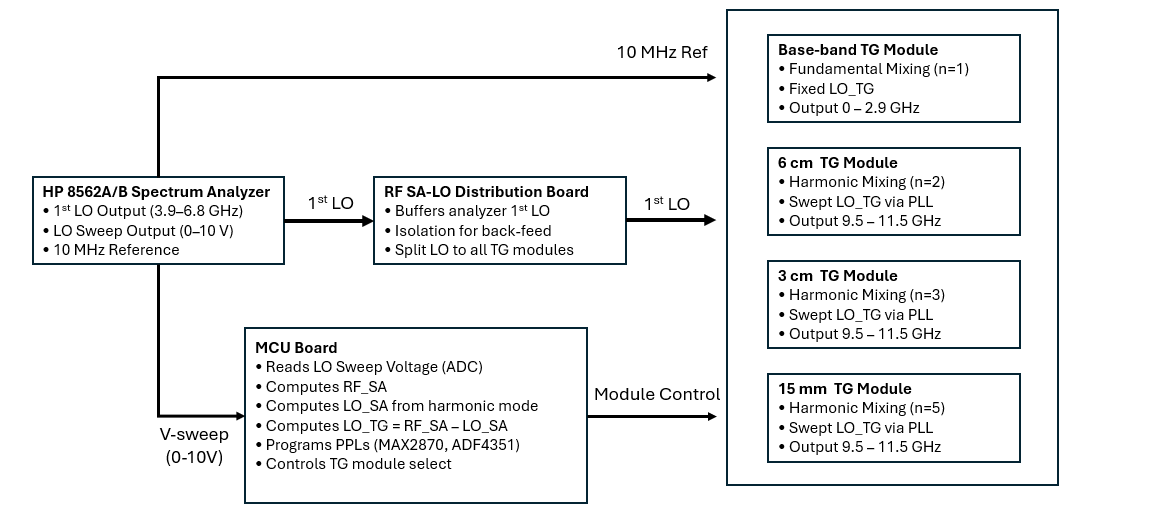
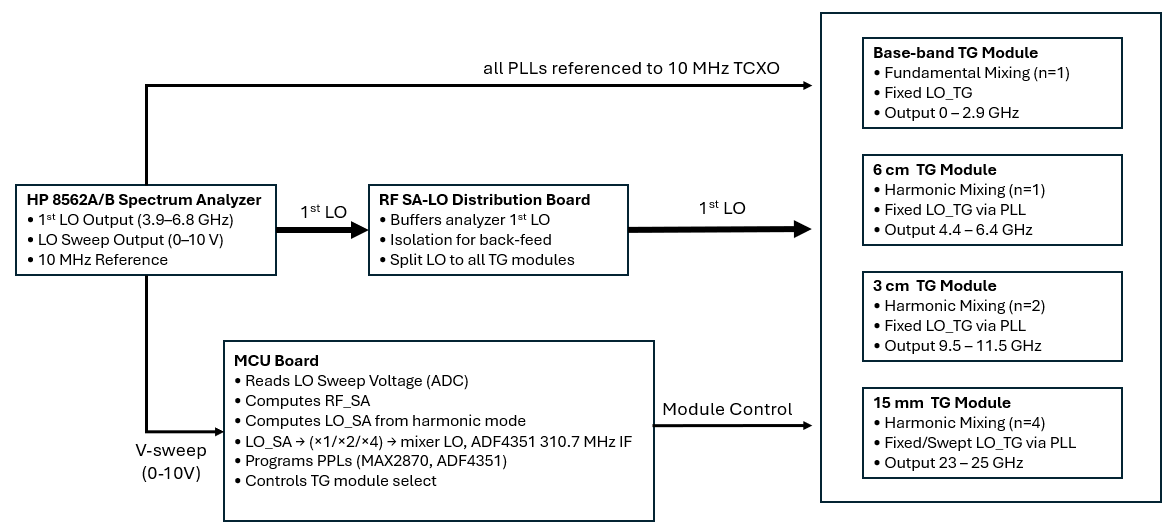
Refactor code structure for improved readability and maintainability

Changed region(s): [[0.0, 0.0614, 0.9965, 1.0], [0.6228, 0.0, 0.9965, 0.0307]]

diff --git a/docs/architecture/01-tg-system-architecture.md b/docs/architecture/01-tg-system-architecture.md
@@ -11,9 +11,9 @@
 The Tracking Generator (TG) system is a modular, analyzer‑synchronous signal source covering:
 
 - **Base‑Band:** 0–2.9 GHz  
+- **6 cm:** 4.4-6.4 GHz 
 - **3 cm:** 9.5–11.5 GHz  
-- **6 cm:** future  
-- **15 mm:** future  
+- **15 mm:** 23-25 Ghz (future)  
 
 All TG modules derive their timing and frequency coherence from the **spectrum analyzer’s internal LO system**, ensuring that the TG output always tracks the analyzer sweep.
 
@@ -33,7 +33,7 @@ The TG system is composed of six boards:
 1. **MCU (Raspberry Pi Pico)**  
 2. **RF SA‑LO Distribution Module**  
 3. **Base‑Band TG Module**  
-4. **6 cm TG Module** (future)  
+4. **6 cm TG Module**  
 5. **3 cm TG Module**  
 6. **15 mm TG Module** (future)
 
@@ -54,23 +54,24 @@ Each TG module then generates its own internal LO(s) and performs mixing to reco
 - Ensures long‑term coherence
 
 ### Base‑Band module  
-- Internal LO: MAX2870 at 3.9107 GHz (fixed)  
+- Internal IF LO: MAX2870 at 3.9107 GHz (fixed)  
 - Mixer: HMC219  
 - Output: 0–2.9 GHz
 
+### 6 cm module  
+- Internal IF LO: ADF4351 at 310.7 MHz (fixed)  
+- Mixer: HMC219
+- Output: 4.4-6.4 GHz
+
 ### 3 cm module  
 - High‑frequency LO: Doubled analyzer LO (8.94–10.28 GHz)  
-- IF LO: ADF4351 (0.56–1.23 GHz)  
+- Internal IF LO: ADF4351 at 310.7 MHz (fixed)  
 - Mixer: HMC220  
 - Output: 9.5–11.5 GHz
 
-### 6 cm module (future)  
-- Will use analyzer LO + local PLL/multiplier  
-- Output expected in 5–7 GHz region
-
 ### 15 mm module (future)  
 - Will require higher‑order multiplication  
-- Output expected in 18–20 GHz region
+- Output expected in 23-25 GHz region
 
 ---
 
@@ -87,9 +88,8 @@ Each TG module then generates its own internal LO(s) and performs mixing to reco
 | Analyzer 1st LO → Distribution | +16.5 dBm | Raw analyzer output |
 | Distribution → TG modules | +16 dBm | After isolator, amp, splitter, pad |
 | TG module LO input | +13 dBm | After on‑module pad/filter |
-| Base‑Band MAX2870 LO | +13 dBm | After LO chain |
-| 3 cm Doubled LO | +7 dBm | After LO amp |
-| 3 cm IF LO (ADF4351) | 0 dBm | Direct |
+| TG mixer LO input | +13 dBm | After LO chain |
+| Output | 0 dBm | After filters, amp, pad|
 
 All levels are chosen to meet mixer LO drive requirements and maintain isolation.
 
@@ -100,11 +100,10 @@ All levels are chosen to meet mixer LO drive requirements and maintain isolation
 ### MCU responsibilities  
 - Program MAX2870 (Base‑Band)  
 - Program ADF4351 (3 cm)  
-- Compute sweep‑dependent IF for 3 cm module  
+- Compute sweep‑dependent IF if needed 
 - Manage LO enable/mute  
 - Monitor PLL lock‑detect  
 - Handle band selection  
-- Provide calibration hooks
 
 ### Shared resources  
 - SPI bus shared across all PLLs  
@@ -134,12 +133,12 @@ System‑level calibration ensures:
 
 ## Mechanical / layout considerations
 
+- Analyser LO input at front panel (Cabinet below SA)
 - LO Distribution board placed closest to analyzer LO input  
 - TG modules arranged to minimize LO crosstalk  
 - Shielding around mixers, doublers, and LO amplifiers  
 - Consistent grounding across all modules  
 - SMA connectors clearly labeled by band  
-- Adequate thermal margin for LO amplifiers and PLLs
 
 ---
 

diff --git a/docs/architecture/03-analyser-lo-internals.md b/docs/architecture/03-analyser-lo-internals.md
@@ -15,22 +15,19 @@ The TG locks onto the analyzer’s **fundamental synthesizer output LO_SA**, whi
 
 This LO_SA range is derived from the harmonic‑mode equation:
 
-**IF_SA = | 2 × LO_SA – RF_SA |**,  
-with **IF_SA = 310.7 MHz**.
+**IF_SA = | 2 × LO_SA – RF_SA |**,  with **IF_SA = 310.7 MHz**.
 
-The analyzer uses the **high‑side** solution:
-
-**LO_SA = (RF_SA + 310.7 MHz) / 2**
+The analyzer uses the **high‑side** solution: **LO_SA = (RF_SA + 310.7 MHz) / 2**
 
 ---
 
 ## Internal signal flow
 
-1. **RF_SA (9.5–11.5 GHz)** enters the **A8 Dual Mixer**.  
+1. **RF_SA (9.5–11.5 GHz)** enters the **Dual Mixer (A8)**.  
 2. The analyzer’s **LO_synth** (4.905–5.905 GHz) is **doubled** internally to produce **2 × LO_synth = 9.81–11.81 GHz**.  
 3. The first mixer down‑converts RF_SA to the **first IF = 310.7 MHz** (harmonic mode n = 2).  
-4. The 310.7 MHz IF passes through the **A13 Second Converter**, but **bypasses its mixer** (Bands 1–4 do not use the second conversion).  
-5. The **A15 Third Converter** performs the **final conversion** from 310.7 MHz to the **final IF = 10.7 MHz**, which feeds the display chain.
+4. The 310.7 MHz IF passes through the **Second Converter (A13)**, but **bypasses its mixer** (Bands 1–4 do not use the second conversion).  
+5. The **Third Converter (A15)** performs the **final conversion** from 310.7 MHz to the **final IF = 10.7 MHz**, which feeds the display chain.
 
 So according to the HP service manual:
 
@@ -69,7 +66,7 @@ This is the LO range distributed to the TG.
 | Displayed RF band | **RF_SA** | 9.5–11.5 GHz | Analyzer 3 cm band |
 | First IF | **IF_SA** | 310.7 MHz | Fixed internal IF |
 | Synthesizer output | **LO_SA** | 4.905–5.905 GHz | TG reference |
-| Effective 1st LO | **LO1** | 9.81–11.81 GHz | 2 × LO_SA |
+| Effective 1st LO | **LO_2** | 9.81–11.81 GHz | 2 × LO_SA |
 | Final IF | **IF_display** | 10.7 MHz | Display IF |
 
 ---

diff --git a/docs/architecture/05-baseband-module.md b/docs/architecture/05-baseband-module.md
@@ -33,8 +33,7 @@ The mixer’s difference product reconstructs the analyzer RF at base‑band.
 `RF_SA = 0–2.9 GHz`
 
 ### Analyzer 1st LO  
-`LO_SA = RF_SA + IF_1`  
-with `IF_1 = 3.9107 GHz`
+`LO_SA = RF_SA + IF_1`  with `IF_1 = 3.9107 GHz`
 
 So:  
 `LO_SA = 3.9107–6.8107 GHz`
@@ -59,7 +58,7 @@ Thus the TG output equals the analyzer RF.
 
 ## Block diagram
 
-```markdown
+```
 ![Base‑Band TG architecture](/images/baseband.png)
 ```
 
@@ -89,7 +88,7 @@ Thus the TG output equals the analyzer RF.
 ## Control architecture
 
 - MAX2870 uses the analyzer’s 10 MHz reference  
-- SPI control from Raspberry Pi Pico  
+- SPI control from Raspberry Pi Pico (MCU)
 - LO is fixed; no sweep‑dependent tuning  
 - MCU handles LO enable/mute and lock‑detect
 
@@ -97,8 +96,8 @@ Thus the TG output equals the analyzer RF.
 
 ## Mechanical / layout notes
 
-- Keep the 3.9107 GHz LO chain short and shielded  
-- Maintain isolation between the high‑level LO and the 0–2.9 GHz output  
+- 3.9107 GHz LO chain short and shielded  
+- Good isolation between high‑level LO and the 0–2.9 GHz output  
 - Fine‑tune pads for correct levels at:  
   - SA 1st LO input  
   - MAX2870 LO chain  

diff --git a/README.md b/README.md
@@ -1,6 +1,6 @@
 # Tracking Generator for the HP 8562A/B Spectrum Analyzer  
-**Reconstructing the Analyzer’s RF Sweep from Its Local Oscillator**  
-**Modular, analyzer‑synchronous architecture**
+**Reconstructing the Analyzer’s RF Sweep from Its Local Oscillator**
+**A modular, analyzer‑synchronous architecture**
 
 ---
 
@@ -49,11 +49,7 @@ To cover 1 kHz–26 GHz, it uses **automatic harmonic mixing**, where each R
 | 12.4–19.7 GHz | 3 | 310.7 MHz | LO_SA = (RF_SA + 0.3107 GHz) / 3 |
 | 19.1–26.0 GHz | 4 | 310.7 MHz | LO_SA = (RF_SA + 0.3107 GHz) / 4 |
 
-For each band, the analyzer follows:
-
-```
-n * LO_SA = RF_SA + IF
-```
+For each band, the analyzer follows: `n * LO_SA = RF_SA + IF`
 
 Because **n changes with band**, the analyzer LO becomes **non‑linear** with respect to the displayed frequency.
 